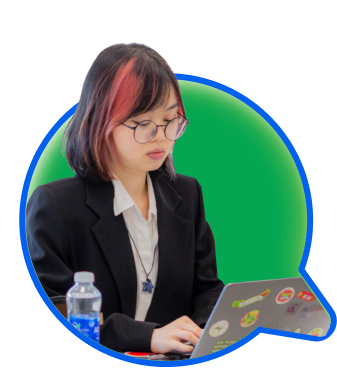
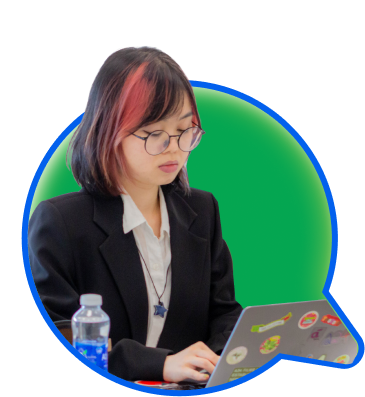
fix(modal): lock background scrolling and contain scroll strictly within wish card popups

diff --git a/js/app.js b/js/app.js
@@ -743,6 +743,58 @@ document.addEventListener('DOMContentLoaded', () => {
         });
     }
 
+    // Helper: Lock / Unlock body scroll when modals pop up
+    function updateModalBodyScrollLock() {
+        const isAnyModalOpen = (gridOverlay && !gridOverlay.classList.contains('hidden')) ||
+                               (readerOverlay && !readerOverlay.classList.contains('hidden')) ||
+                               (editorOverlay && !editorOverlay.classList.contains('hidden'));
+        if (isAnyModalOpen) {
+            document.body.classList.add('modal-open');
+            document.documentElement.classList.add('modal-open');
+        } else {
+            document.body.classList.remove('modal-open');
+            document.documentElement.classList.remove('modal-open');
+        }
+    }
+
+    // Helper: Setup wheel / touchmove containment on modal overlays to prevent background scrolling
+    function setupOverlayScrollContainment() {
+        [gridOverlay, readerOverlay, editorOverlay].forEach(overlay => {
+            if (!overlay) return;
+            overlay.addEventListener('wheel', (e) => {
+                const scrollable = e.target.closest('.grid-modal-scroll, .card-text-content, .editor-card-container');
+                if (!scrollable) {
+                    e.preventDefault();
+                } else {
+                    const { scrollTop, scrollHeight, clientHeight } = scrollable;
+                    const delta = e.deltaY;
+                    if ((delta < 0 && scrollTop <= 0) || (delta > 0 && scrollTop + clientHeight >= scrollHeight - 1)) {
+                        e.preventDefault();
+                    }
+                }
+            }, { passive: false });
+
+            overlay.addEventListener('touchmove', (e) => {
+                const scrollable = e.target.closest('.grid-modal-scroll, .card-text-content, .editor-card-container');
+                if (!scrollable) {
+                    e.preventDefault();
+                }
+            }, { passive: false });
+        });
+
+        window.addEventListener('keydown', (e) => {
+            if (e.key === 'Escape') {
+                if (readerOverlay && !readerOverlay.classList.contains('hidden')) {
+                    closeReader();
+                } else if (gridOverlay && !gridOverlay.classList.contains('hidden')) {
+                    closeGridModal();
+                } else if (editorOverlay && !editorOverlay.classList.contains('hidden')) {
+                    closeEditor();
+                }
+            }
+        });
+    }
+
     // ==========================================================================
     // EDITOR MODAL LOGIC
     // ==========================================================================
@@ -753,12 +805,14 @@ document.addEventListener('DOMContentLoaded', () => {
             editorCard.style.backgroundColor = currentEditorBgColor;
         }
         editorOverlay.classList.remove('hidden');
+        updateModalBodyScrollLock();
         resetEditor();
         setTimeout(resizeCanvas, 50);
     }
 
     function closeEditor() {
         editorOverlay.classList.add('hidden');
+        updateModalBodyScrollLock();
     }
 
     function resetEditor() {
@@ -779,15 +833,18 @@ document.addEventListener('DOMContentLoaded', () => {
 
     function closeReader() {
         readerOverlay.classList.add('hidden');
+        updateModalBodyScrollLock();
     }
 
     function openGridModal() {
         renderGridModalCards();
         if (gridOverlay) gridOverlay.classList.remove('hidden');
+        updateModalBodyScrollLock();
     }
 
     function closeGridModal() {
         if (gridOverlay) gridOverlay.classList.add('hidden');
+        updateModalBodyScrollLock();
     }
 
     function renderGridModalCards() {
@@ -2078,6 +2135,7 @@ document.addEventListener('DOMContentLoaded', () => {
             </div>
         `;
         readerOverlay.classList.remove('hidden');
+        updateModalBodyScrollLock();
     }
 
     function escapeHtml(str) {

diff --git a/css/section4.css b/css/section4.css
@@ -460,7 +460,7 @@ body {
 
     .stat-card {
         background-color: #0052FF !important;
-        border-radius: 20px !important;
+        border-radius: 22px !important;
         padding: 10px 10px 12px 10px !important;
         box-shadow: 0 8px 24px rgba(0, 102, 255, 0.18) !important;
         display: flex !important;
@@ -484,7 +484,7 @@ body {
 
     .section-4-wrapper .stat-number-box,
     .stat-number-box {
-        font-size: clamp(3rem, 5.5vw, 2.2rem) !important;
+        font-size: clamp(4rem, 5.5vw, 2.2rem) !important;
         font-weight: 500 !important;
         color: #FFFFFF !important;
         flex-shrink: 0 !important;
@@ -492,7 +492,7 @@ body {
 
     .section-4-wrapper .stat-label,
     .stat-label {
-        font-size: 1.5rem !important;
+        font-size: 1.4rem !important;
         color: #60CEFF !important;
         font-weight: 400 !important;
         white-space: nowrap !important;
@@ -506,5 +506,14 @@ body {
 
     .journey-subtitle p {
         font-size: 1.05rem !important;
+    }
+
+    .card-image-wrapper {
+        position: relative !important;
+        bottom: 56px !important;
+        /* Đẩy lên (-) hoặc dịch xuống (+) */
+        right: 10px !important;
+        /* Dịch sang trái (-) hoặc sang phải (+) */
+        margin-bottom: 0px !important;
     }
 }

diff --git a/css/styles.css b/css/styles.css
@@ -1001,8 +1001,27 @@ body {
 }
 
 /* ==========================================================================
-   OVERLAY MODAL (EDITOR & READER)
+   OVERLAY MODAL (EDITOR & READER) SCROLL LOCK & CONTAINMENT
    ========================================================================== */
+body.modal-open,
+html.modal-open {
+    overflow: hidden !important;
+    height: 100vh !important;
+    touch-action: none !important;
+}
+
+.overlay,
+#grid-overlay,
+#reader-overlay,
+#editor-modal-overlay,
+.grid-modal-container,
+.grid-modal-scroll,
+.reader-modal-container,
+.reader-modal-card,
+.card-text-content {
+    overscroll-behavior: contain !important;
+}
+
 .overlay {
     position: fixed !important;
     top: 0 !important;

diff --git a/all_sections.html b/all_sections.html
@@ -2184,7 +2184,6 @@
                         <ul class="footer-link-list">
                             <li><a href="https://sociologic.vn/about-us.html"><span class="chevron">&gt;</span> Giới
                                     thiệu</a></li>
-                            <li><a href="#"><span class="chevron">&gt;</span> Chính sách</a></li>
                             <li><a href="https://sociologic.vn/tin-tuc-moi"><span class="chevron">&gt;</span> Tin
                                     tức</a></li>
                             <li><a href="https://sociologic.vn/contact"><span class="chevron">&gt;</span> Liên hệ</a>

diff --git a/index.html b/index.html
@@ -2184,7 +2184,6 @@
                         <ul class="footer-link-list">
                             <li><a href="https://sociologic.vn/about-us.html"><span class="chevron">&gt;</span> Giới
                                     thiệu</a></li>
-                            <li><a href="#"><span class="chevron">&gt;</span> Chính sách</a></li>
                             <li><a href="https://sociologic.vn/tin-tuc-moi"><span class="chevron">&gt;</span> Tin
                                     tức</a></li>
                             <li><a href="https://sociologic.vn/contact"><span class="chevron">&gt;</span> Liên hệ</a>
